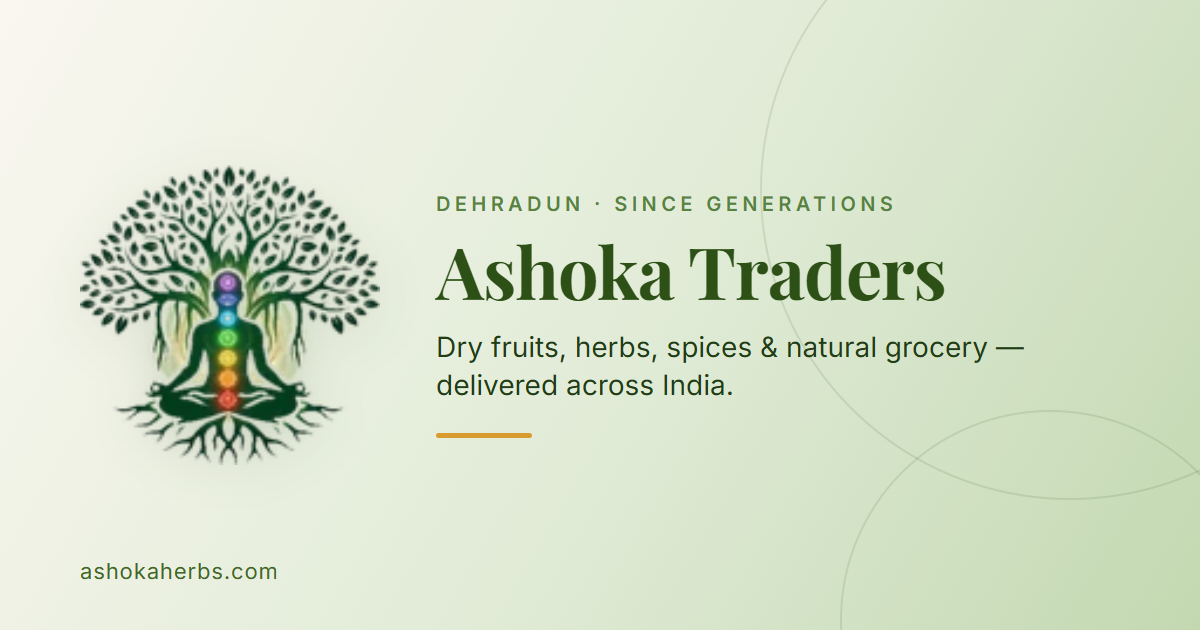
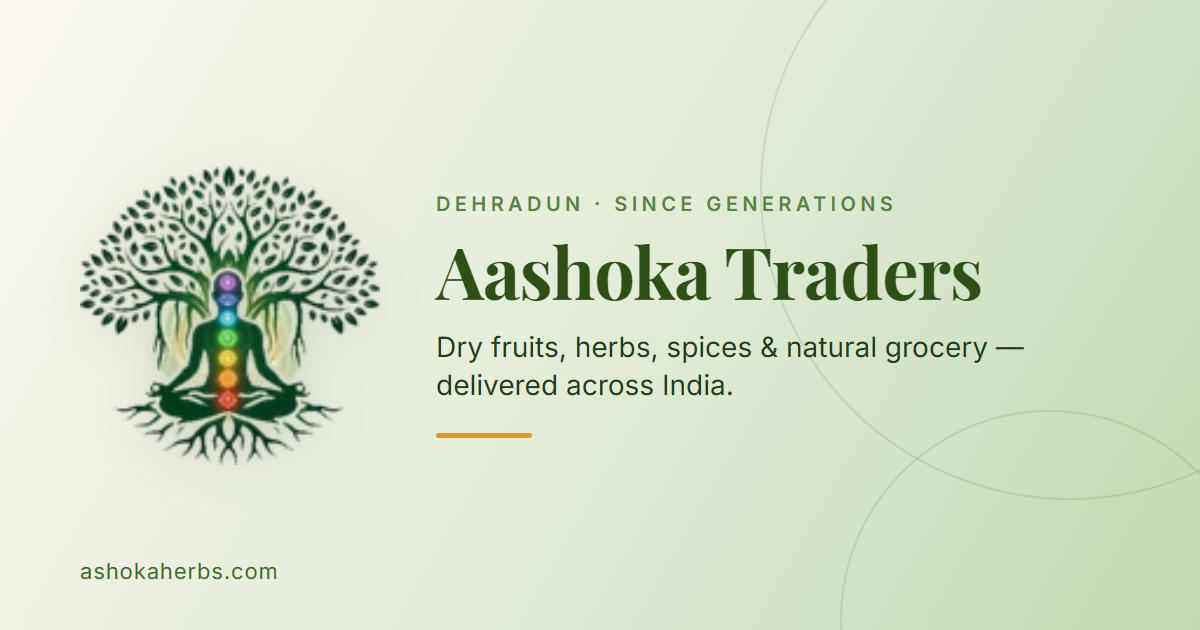
Rename the brand from Ashoka Traders to Aashoka Traders
Changes the displayed name everywhere it is written in the code: both app titles and
all SEO/Open Graph tags, the admin sidebar and login, the storefront header, footer and
legal pages, the invoice/Bill of Supply header, order confirmation and back-in-stock
emails, WhatsApp messages, the API health message and the docs. Regenerates the social
share card and the sample Bill of Supply with the new name.

Deliberately NOT renamed, because they are live identifiers rather than brand text:
ashokaherbs.com, ashokaherb@gmail.com, the Render service URL, the Cloudinary image
folder (every existing product image URL contains it), the database name and the npm
package names.

The store name shown to customers comes from Settings in the database; the code value is
only the fallback for a fresh install, so the live record still needs updating in
Admin > Settings.

Changed region(s): [[0.4008, 0.3921, 0.8325, 0.4825]]

diff --git a/storefront/index.html b/storefront/index.html
@@ -16,18 +16,18 @@
       back to exactly this card. Google does run JavaScript, so it sees the per-page tags.
       (To get per-product WhatsApp previews, the site needs prerendering/SSR - see README.)
     -->
-    <title data-rh="true">Ashoka Traders — Buy Dry Fruits, Herbs &amp; Natural Grocery Online</title>
+    <title data-rh="true">Aashoka Traders — Buy Dry Fruits, Herbs &amp; Natural Grocery Online</title>
     <meta
       data-rh="true"
       name="description"
-      content="Buy premium dry fruits, herbs, spices and natural grocery online from Ashoka Traders, Dehradun. Honest quality, fair prices and delivery across India with cash on delivery."
+      content="Buy premium dry fruits, herbs, spices and natural grocery online from Aashoka Traders, Dehradun. Honest quality, fair prices and delivery across India with cash on delivery."
     />
     <link data-rh="true" rel="canonical" href="https://ashokaherbs.com/" />
     <meta data-rh="true" name="robots" content="index, follow, max-image-preview:large" />
 
     <meta data-rh="true" property="og:type" content="website" />
-    <meta data-rh="true" property="og:site_name" content="Ashoka Traders" />
-    <meta data-rh="true" property="og:title" content="Ashoka Traders — Buy Dry Fruits, Herbs &amp; Natural Grocery Online" />
+    <meta data-rh="true" property="og:site_name" content="Aashoka Traders" />
+    <meta data-rh="true" property="og:title" content="Aashoka Traders — Buy Dry Fruits, Herbs &amp; Natural Grocery Online" />
     <meta
       data-rh="true"
       property="og:description"
@@ -40,7 +40,7 @@
     <meta data-rh="true" property="og:locale" content="en_IN" />
 
     <meta data-rh="true" name="twitter:card" content="summary_large_image" />
-    <meta data-rh="true" name="twitter:title" content="Ashoka Traders — Buy Dry Fruits, Herbs &amp; Natural Grocery Online" />
+    <meta data-rh="true" name="twitter:title" content="Aashoka Traders — Buy Dry Fruits, Herbs &amp; Natural Grocery Online" />
     <meta
       data-rh="true"
       name="twitter:description"

diff --git a/storefront/src/pages/Cart.jsx b/storefront/src/pages/Cart.jsx
@@ -21,7 +21,7 @@ export default function Cart() {
   if (items.length === 0) {
     return (
       <div className="max-w-3xl mx-auto px-4 py-10 text-center">
-        <Seo title="Your Cart | Ashoka Traders" description="Review the items in your cart before checkout." noindex />
+        <Seo title="Your Cart | Aashoka Traders" description="Review the items in your cart before checkout." noindex />
         <p className="text-gray-500 mb-4">Your cart is empty.</p>
         <Link to="/" className="text-brand-700 font-medium">
           Continue shopping &rarr;
@@ -33,7 +33,7 @@ export default function Cart() {
   return (
     <div className="max-w-3xl mx-auto px-4 py-6">
       {/* A personal cart has no value in search results (and is disallowed in robots.txt) */}
-      <Seo title="Your Cart | Ashoka Traders" description="Review the items in your cart before checkout." noindex />
+      <Seo title="Your Cart | Aashoka Traders" description="Review the items in your cart before checkout." noindex />
       <h1 className="text-xl font-bold text-gray-800 mb-4">Your Cart</h1>
 
       <div className="bg-white rounded-lg shadow-sm divide-y">

diff --git a/backend/tests/settings.test.js b/backend/tests/settings.test.js
@@ -36,7 +36,7 @@ describe("store settings", () => {
   test("only an admin can change them", async () => {
     assert.equal((await request.put("/api/settings").send({ storeName: "Hacked" })).status, 401);
     assert.equal((await save({ storeName: "Hacked" }, customerToken)).status, 403);
-    assert.equal((await Settings.findOne()).storeName, "Ashoka Traders");
+    assert.equal((await Settings.findOne()).storeName, "Aashoka Traders");
   });
 
   test("a real GSTIN with the composition scheme is accepted", async () => {
@@ -81,7 +81,7 @@ describe("store settings", () => {
   });
 
   test("unknown fields are ignored instead of being stored", async () => {
-    const res = await save({ storeName: "Ashoka Traders", isAdminBackdoor: true, _id: "000000000000000000000000" });
+    const res = await save({ storeName: "Aashoka Traders", isAdminBackdoor: true, _id: "000000000000000000000000" });
     assert.equal(res.status, 200);
     const stored = await Settings.findOne().lean();
     assert.equal(stored.isAdminBackdoor, undefined);

diff --git a/backend/tests/invoice.test.js b/backend/tests/invoice.test.js
@@ -36,7 +36,7 @@ const sampleOrder = (overrides = {}) => ({
   ...overrides,
 });
 
-const COMPOSITION = { storeName: "Ashoka Traders", gstNumber: "05ABCDE1234F1Z5", gstScheme: "composition", storeAddress: "Dehradun", invoiceTerms: "Keep this bill." };
+const COMPOSITION = { storeName: "Aashoka Traders", gstNumber: "05ABCDE1234F1Z5", gstScheme: "composition", storeAddress: "Dehradun", invoiceTerms: "Keep this bill." };
 
 /** The visible text of the PDF (page content is compressed - see helpers/pdfText.js). */
 const pdfText = (buffer) => extractPdfText(buffer);
@@ -101,7 +101,7 @@ describe("bill PDF", () => {
   test("an unregistered shop gets a receipt with no GSTIN and no disclosure", async () => {
     const pdf = await renderInvoicePDFBuffer(
       sampleOrder(),
-      { storeName: "Ashoka Traders", gstScheme: "not_registered", gstNumber: "" },
+      { storeName: "Aashoka Traders", gstScheme: "not_registered", gstNumber: "" },
       { compress: false }
     );
     const text = pdfText(pdf);

diff --git a/storefront/src/pages/Checkout.jsx b/storefront/src/pages/Checkout.jsx
@@ -168,7 +168,7 @@ export default function Checkout() {
         amount: rp.amount,
         currency: rp.currency,
         order_id: rp.razorpayOrderId,
-        name: "Ashoka Traders",
+        name: "Aashoka Traders",
         description: "Order payment",
         prefill: { name: address.name, contact: address.phone },
         theme: { color: "#3d6923" }, // brand-600, keep in sync with tailwind.config.js
@@ -205,7 +205,7 @@ export default function Checkout() {
   return (
     <div className="max-w-5xl mx-auto px-4 py-6 grid md:grid-cols-3 gap-6">
       {/* Transaction page - never indexed */}
-      <Seo title="Checkout | Ashoka Traders" description="Confirm your delivery address and place your order." noindex />
+      <Seo title="Checkout | Aashoka Traders" description="Confirm your delivery address and place your order." noindex />
       <form
         onSubmit={handlePlaceOrder}
         className="md:col-span-2 bg-white rounded-lg shadow-sm p-6 flex flex-col gap-4"

diff --git a/backend/utils/sendEmail.js b/backend/utils/sendEmail.js
@@ -90,7 +90,7 @@ const formatOrderSummary = (order) => {
 const sendOrderConfirmationEmail = async (user, order, attachments = []) => {
   await sendMail({
     to: user.email,
-    subject: `Your Ashoka Traders order #${order._id} is confirmed`,
+    subject: `Your Aashoka Traders order #${order._id} is confirmed`,
     text:
       `Hi ${user.name},\n\nThanks for your order! Here's a summary:\n\n${formatOrderSummary(order)}\n\n` +
       (attachments.length ? "Your bill is attached as a PDF.\n\n" : "") +
@@ -193,7 +193,7 @@ const sendBackInStockEmail = async (user, product) => {
   await sendMail({
     to: user.email,
     subject: `${product.name} is back in stock!`,
-    text: `Hi ${user.name},\n\nGood news - "${product.name}" is back in stock at Ashoka Traders.\n\nGrab it before it sells out again!`,
+    text: `Hi ${user.name},\n\nGood news - "${product.name}" is back in stock at Aashoka Traders.\n\nGrab it before it sells out again!`,
   });
 };
 

diff --git a/storefront/src/pages/ContactUs.jsx b/storefront/src/pages/ContactUs.jsx
@@ -27,8 +27,8 @@ export default function ContactUs() {
   return (
     <div className="max-w-3xl mx-auto px-4 py-10">
       <Seo
-        title="Contact Us | Ashoka Traders"
-        description="Call, WhatsApp, email or message Ashoka Traders, Dehradun - for orders, cancellations, delivery questions and bulk enquiries."
+        title="Contact Us | Aashoka Traders"
+        description="Call, WhatsApp, email or message Aashoka Traders, Dehradun - for orders, cancellations, delivery questions and bulk enquiries."
       />
 
       <div className="bg-white rounded-lg shadow-sm p-8">
@@ -63,7 +63,7 @@ export default function ContactUs() {
             </a>
           </li>
           <li>
-            <span className="font-medium">Address:</span> Ashoka Traders - Herbs &amp; Dry
+            <span className="font-medium">Address:</span> Aashoka Traders - Herbs &amp; Dry
             Fruits, 3 Dhamawala Bazaar, Dehradun
           </li>
         </ul>

diff --git a/storefront/src/pages/ProductDetail.jsx b/storefront/src/pages/ProductDetail.jsx
@@ -64,7 +64,7 @@ export default function ProductDetail() {
   // engines truncate), followed by the real price and an availability hint so the snippet
   // answers "how much?" and "can I buy it?" without a click.
   const availabilityHint = displayStock > 0 ? "In stock" : "Currently out of stock";
-  const descriptionBody = (product.description || `Buy ${product.name} online at Ashoka Traders.`)
+  const descriptionBody = (product.description || `Buy ${product.name} online at Aashoka Traders.`)
     .replace(/\s+/g, " ")
     .trim()
     .slice(0, 155);
@@ -112,7 +112,7 @@ export default function ProductDetail() {
   return (
     <div className="max-w-4xl mx-auto px-4 py-6">
       <Seo
-        title={`${product.name} — Buy Online | Ashoka Traders`}
+        title={`${product.name} — Buy Online | Aashoka Traders`}
         description={metaDescription}
         canonicalPath={`/product/${product.slug}`}
         type="product"

diff --git a/backend/scripts/verifyEmail.js b/backend/scripts/verifyEmail.js
@@ -80,7 +80,7 @@ const sampleOrder = {
   }
 
   const pdf = await renderInvoicePDFBuffer(sampleOrder, {
-    storeName: "Ashoka Traders",
+    storeName: "Aashoka Traders",
     gstScheme: process.env.TEST_GST_SCHEME || "not_registered",
     gstNumber: "",
     storeAddress: "Sample address",
@@ -89,9 +89,9 @@ const sampleOrder = {
   await transporter.sendMail({
     from: process.env.EMAIL_FROM || process.env.SMTP_USER,
     to,
-    subject: "Ashoka Traders - email delivery test",
+    subject: "Aashoka Traders - email delivery test",
     text: [
-      "This is a test email from the Ashoka Traders backend.",
+      "This is a test email from the Aashoka Traders backend.",
       "",
       "If you can read this, SMTP delivery works from this server.",
       "A sample bill PDF is attached - the same generator used for real orders.",

diff --git a/storefront/src/components/Footer.jsx b/storefront/src/components/Footer.jsx
@@ -11,7 +11,7 @@ import codIcon from "../assets/icons/cod.png";
 // actual profile once it exists (currently just "#").
 const PHONE = "+91 98972 05657";
 const EMAIL = "ashokaherb@gmail.com";
-const ADDRESS = "Ashoka Traders - Herbs & Dry Fruits, 3 Dhamawala Bazaar, Dehradun";
+const ADDRESS = "Aashoka Traders - Herbs & Dry Fruits, 3 Dhamawala Bazaar, Dehradun";
 const INSTAGRAM_URL = "#";
 
 // Shown on every storefront page (mounted once in App.jsx, outside <Routes>).
@@ -111,7 +111,7 @@ export default function Footer() {
       </div>
 
       <div className="border-t border-gray-800 text-center text-xs py-4 text-gray-500">
-        &copy; {new Date().getFullYear()} Ashoka Traders. All rights reserved.
+        &copy; {new Date().getFullYear()} Aashoka Traders. All rights reserved.
       </div>
     </footer>
   );

diff --git a/storefront/src/seo/siteConfig.js b/storefront/src/seo/siteConfig.js
@@ -26,10 +26,10 @@ export const LOGO_URL = absoluteUrl("/apple-touch-icon.png");
 
 export const SITE = {
   /** Trading name. Admin > Settings can change the on-page name; this is the SEO default. */
-  name: "Ashoka Traders",
+  name: "Aashoka Traders",
   tagline: "Buy Dry Fruits, Herbs & Natural Grocery Online",
   description:
-    "Buy premium dry fruits, herbs, spices and natural grocery online from Ashoka Traders, Dehradun. Honest quality, fair prices and delivery across India with cash on delivery.",
+    "Buy premium dry fruits, herbs, spices and natural grocery online from Aashoka Traders, Dehradun. Honest quality, fair prices and delivery across India with cash on delivery.",
 
   // Postal address - matches the Google Business Profile and the invoice footer.
   address: {

diff --git a/backend/utils/generateInvoicePDF.js b/backend/utils/generateInvoicePDF.js
@@ -58,7 +58,7 @@ const itemName = (lineItem) => lineItem.name + (lineItem.variantLabel ? ` (${lin
 
 function drawHeader(doc, type, order, settings) {
   const top = MARGIN;
-  const storeName = settings.storeName || "Ashoka Traders";
+  const storeName = settings.storeName || "Aashoka Traders";
 
   // Left: business details
   doc.fillColor(C.brandDark).font("Helvetica-Bold").fontSize(20).text(storeName, LEFT, top, { width: 320 });
@@ -280,7 +280,7 @@ function drawTotals(doc, y, order, type, taxInfo) {
 }
 
 function drawFooter(doc, y, order, type, settings) {
-  const storeName = settings.storeName || "Ashoka Traders";
+  const storeName = settings.storeName || "Aashoka Traders";
   const terms = (settings.invoiceTerms || "")
     .split("\n")
     .map((t) => t.trim())
